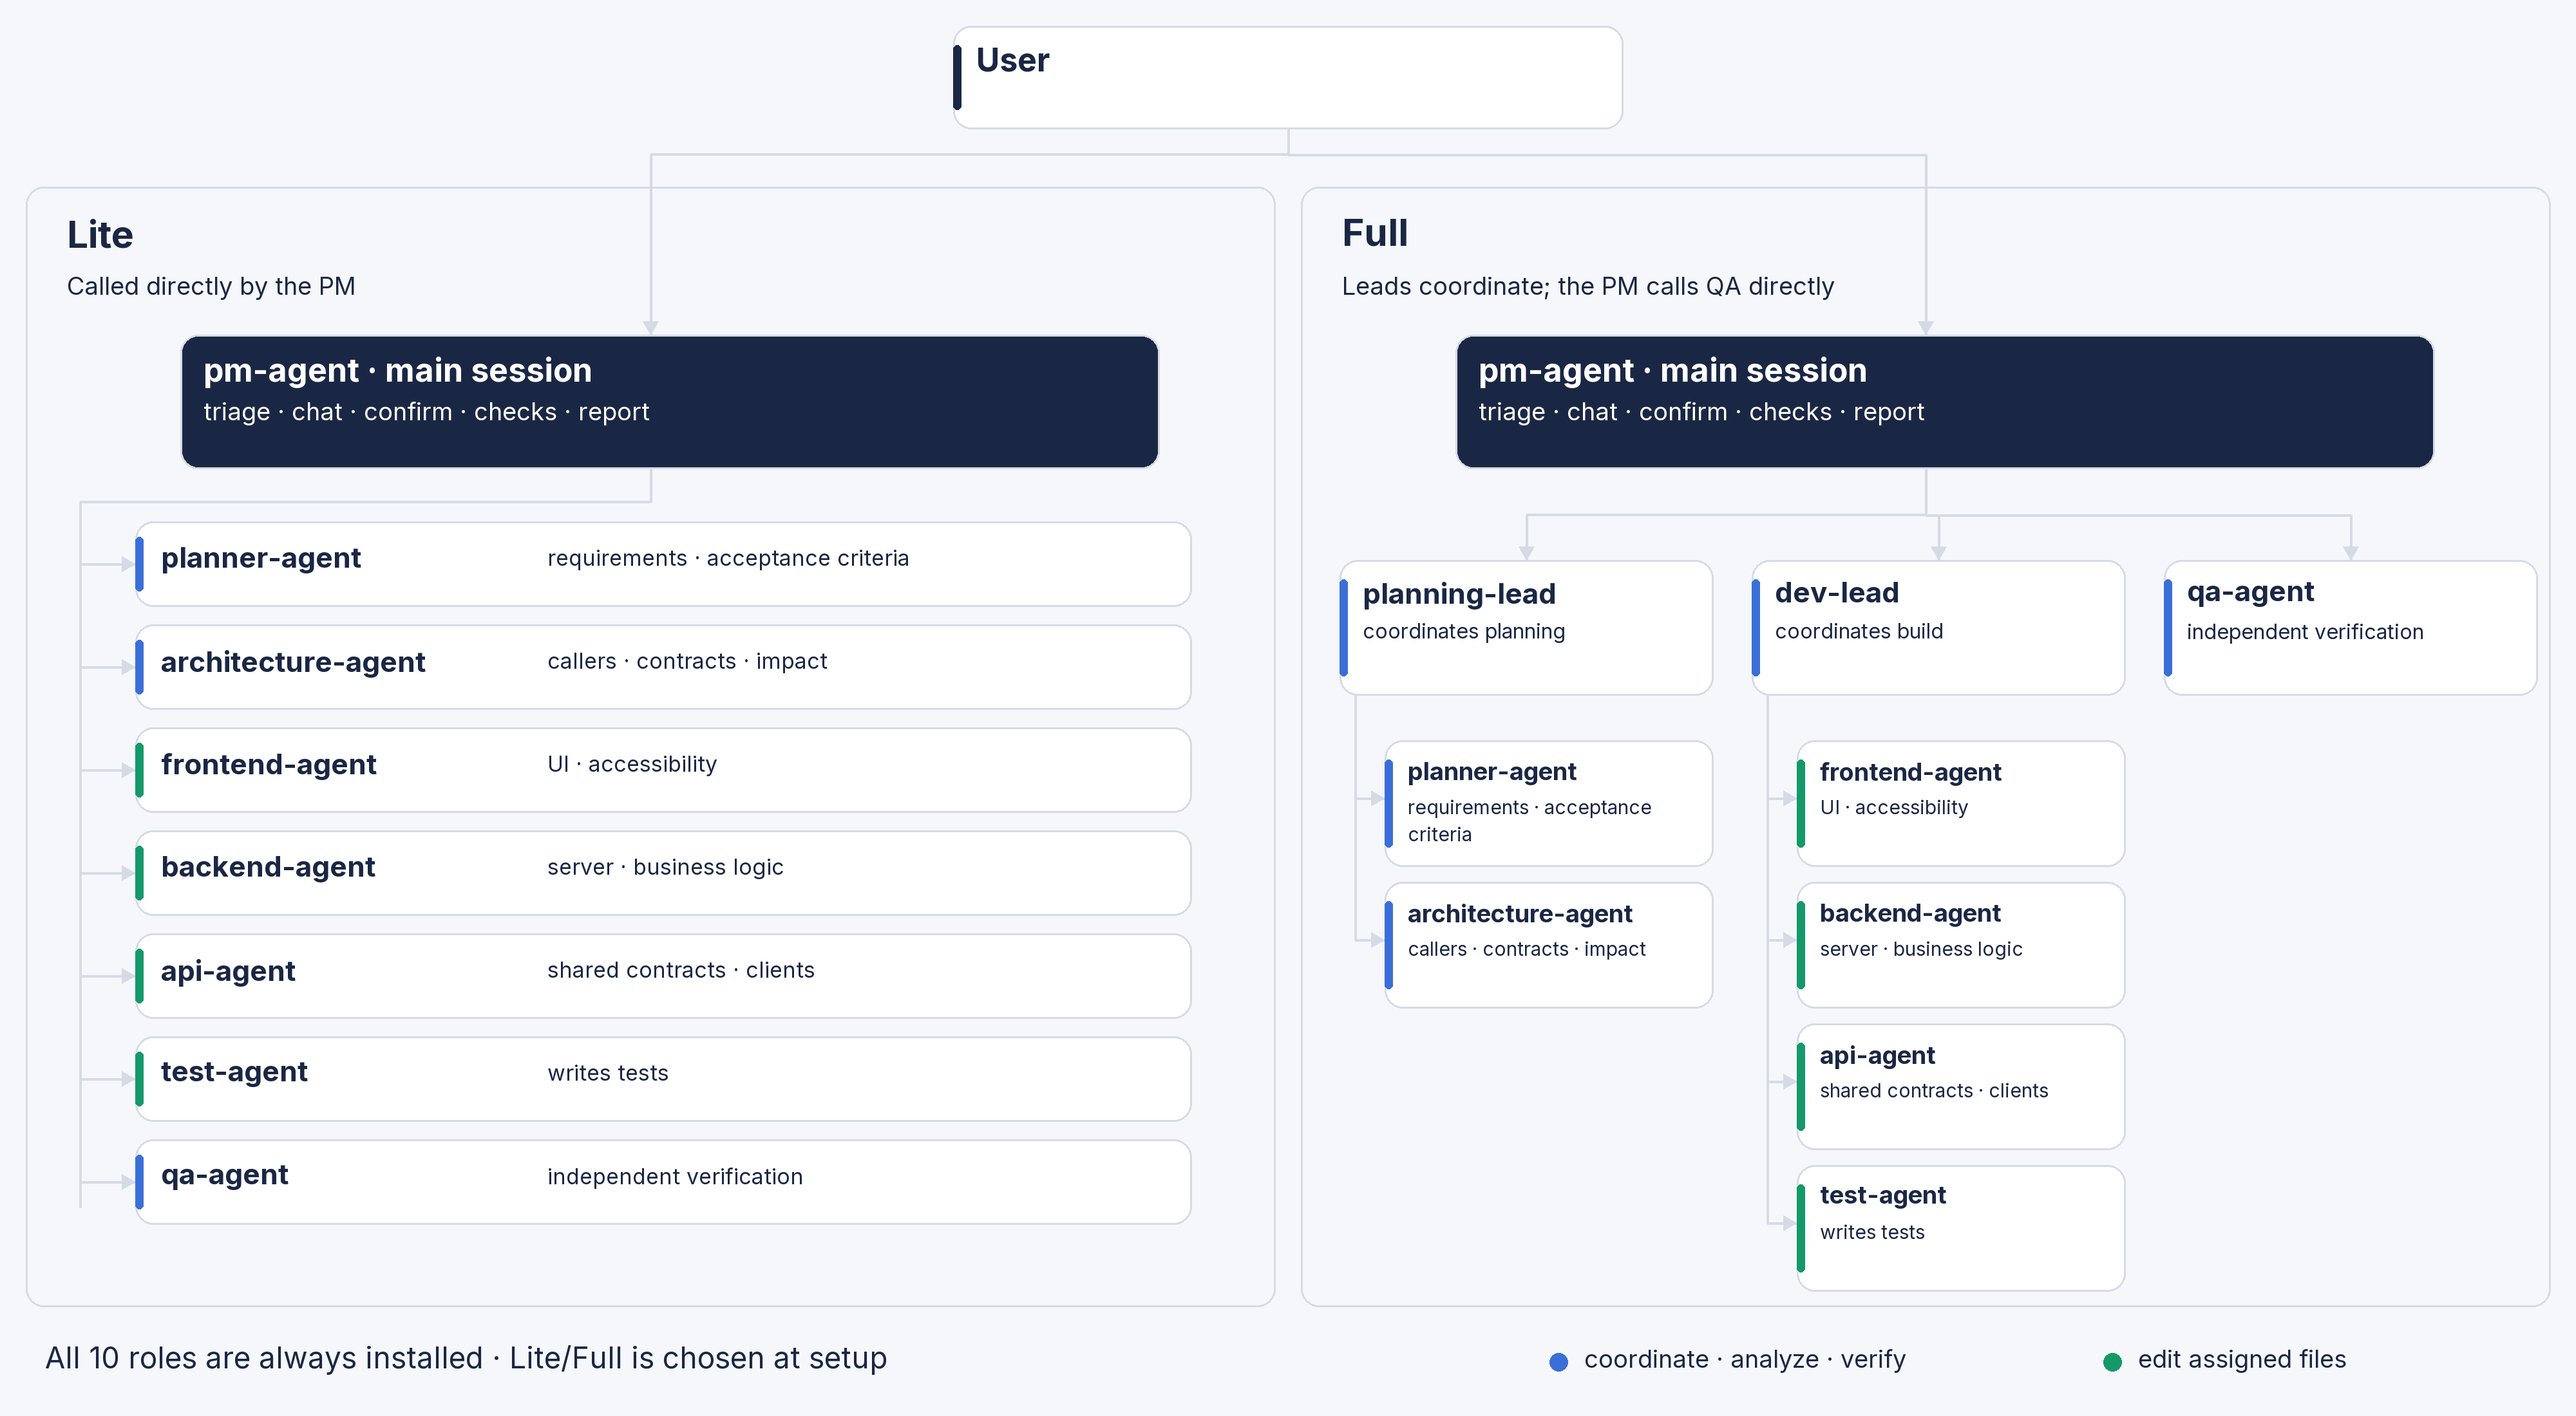
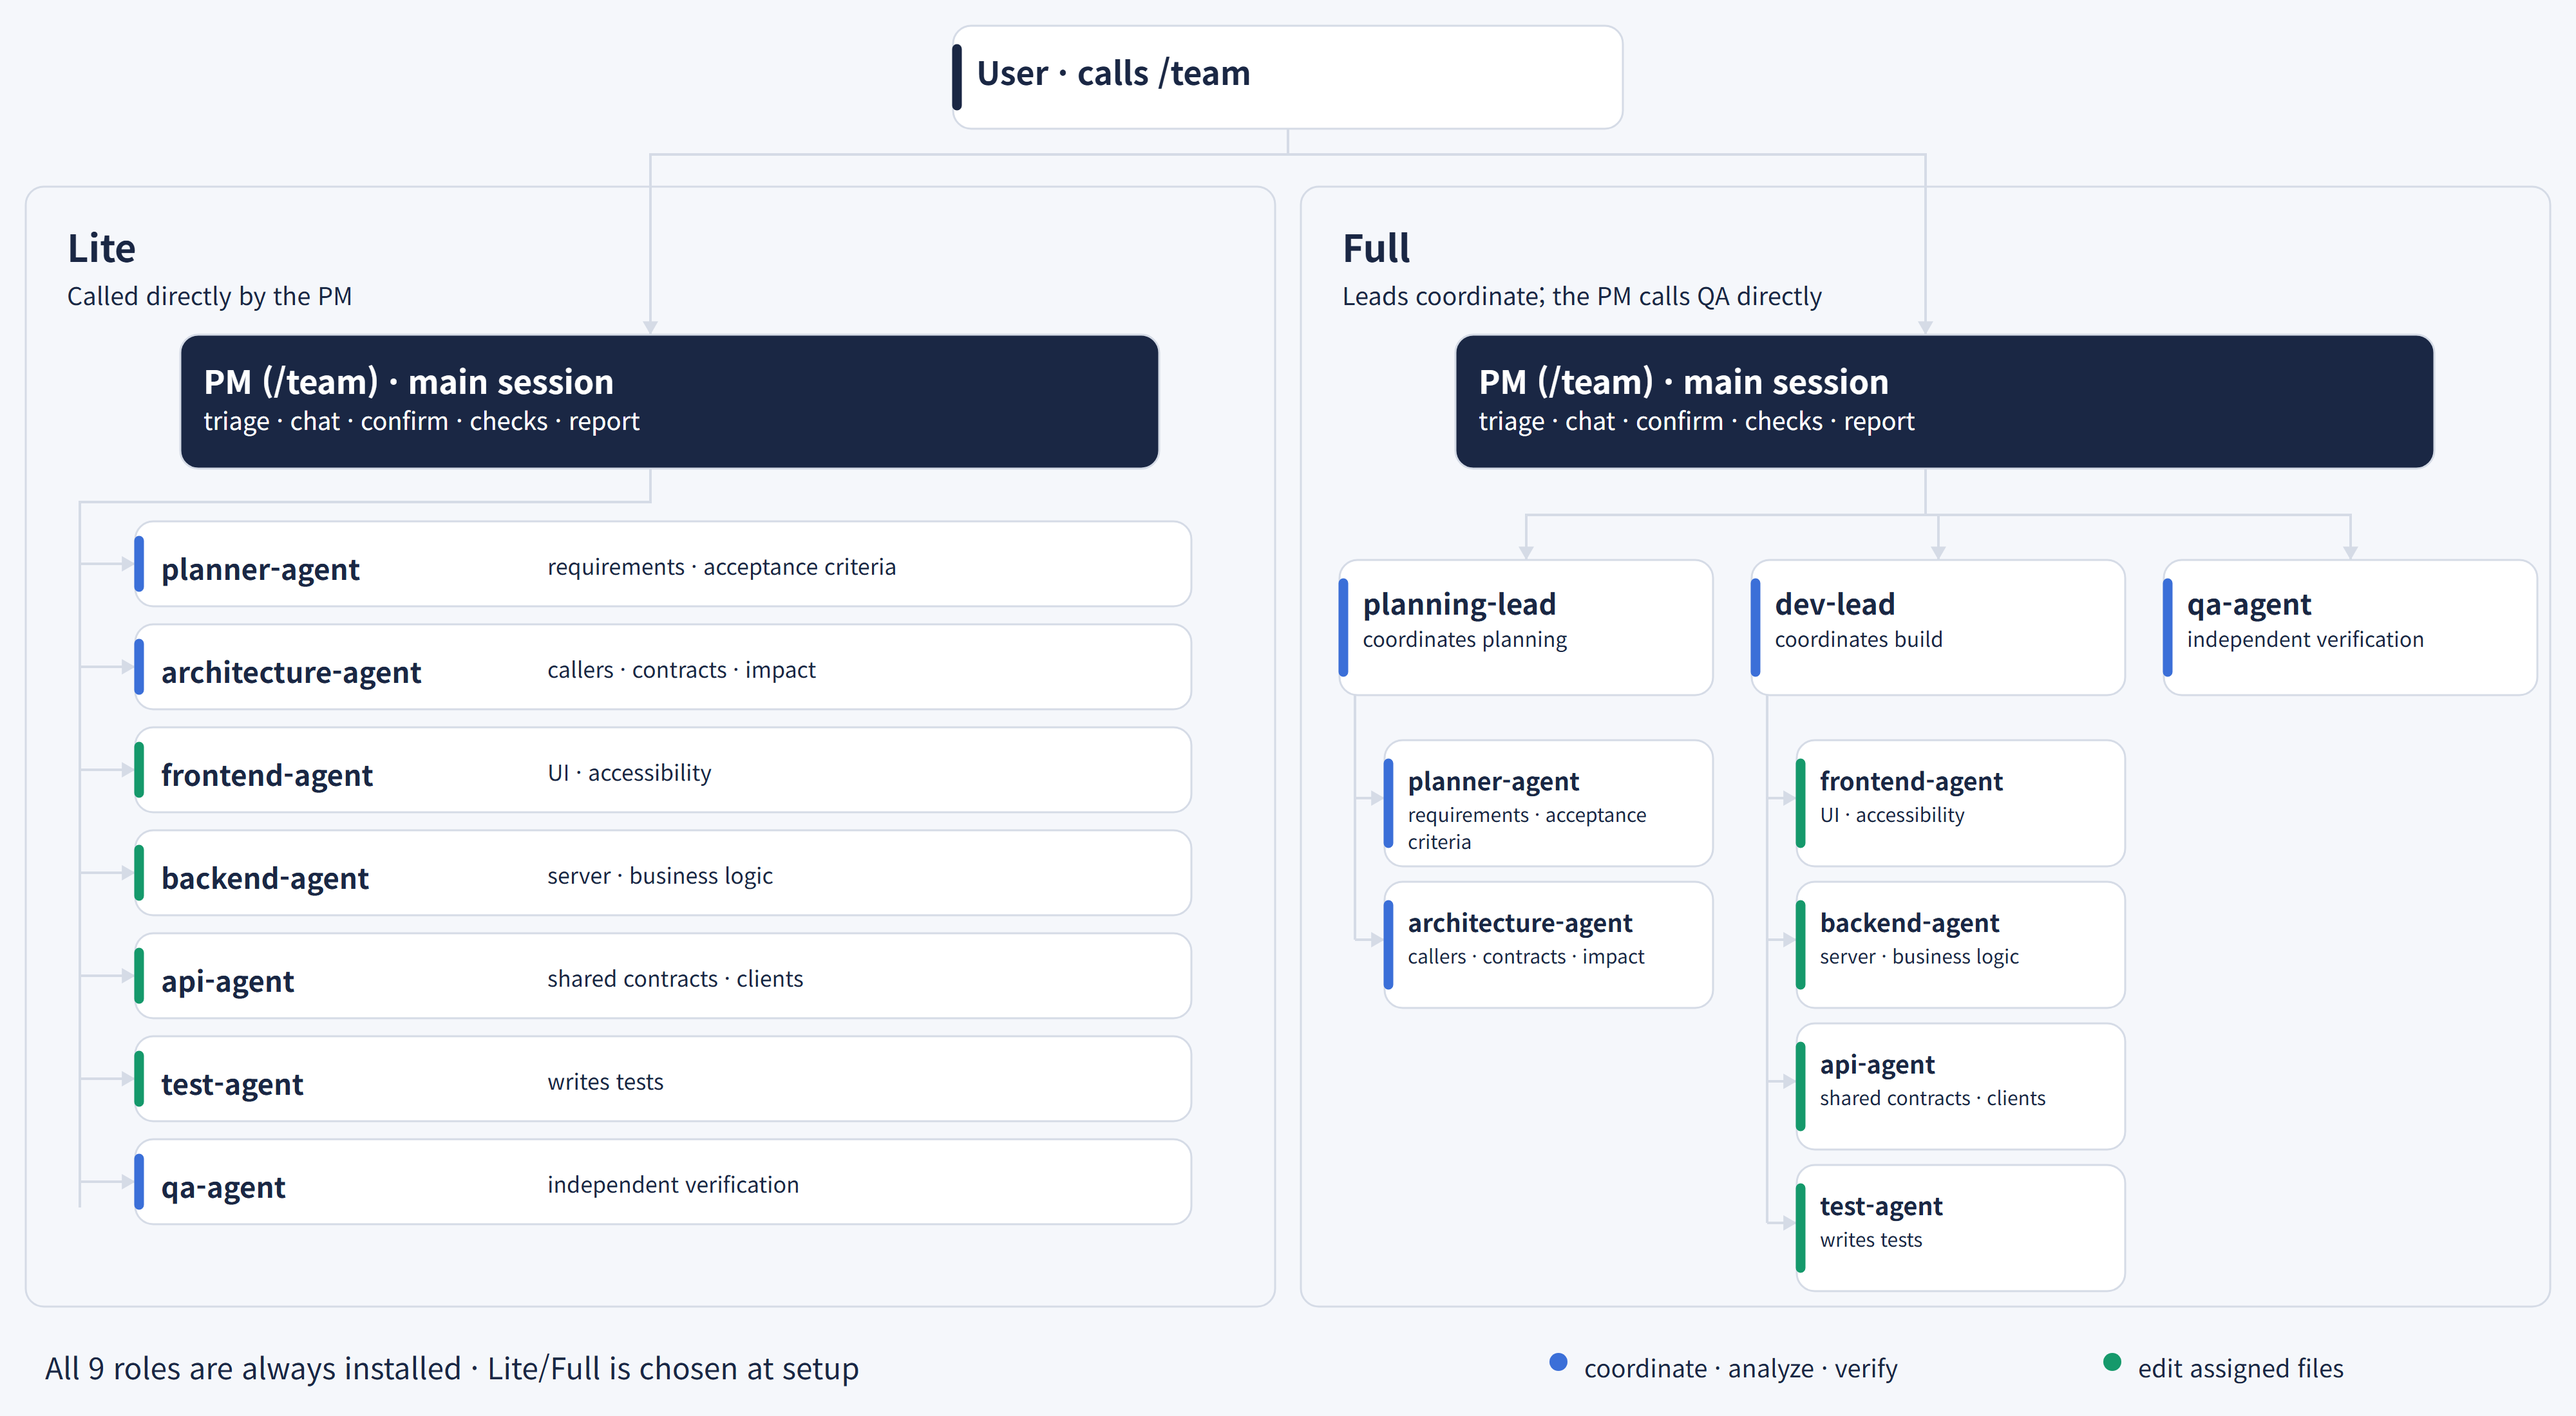
docs: 구조 변경에 맞게 README 이미지 문구 갱신

diff --git a/tools/images/render_readme.py b/tools/images/render_readme.py
@@ -14,36 +14,36 @@ from PIL import Image, ImageDraw, ImageFont
 BG, NAVY, BLUE, GREEN, LINE, AMBER = '#F5F7FB', '#1A2744', '#3B6FD8', '#15996B', '#D5DBE6', '#E8A33D'
 COPY = {
  'ko': {
-  'user': '사용자', 'main': '메인 세션',
+  'user': '사용자 · /team으로 호출', 'main': 'PM (/team) · 메인 세션',
   'lite': 'PM이 직접 호출', 'full': '리더가 하위를 조율, QA는 PM이 직접 호출',
   'legend': ['조율 · 분석 · 검증', '지정 파일 수정'],
-  'note': '역할 파일 10종은 항상 설치 · Lite/Full은 설치 시 선택',
+  'note': '역할 파일 9종은 항상 설치 · Lite/Full은 설치 시 선택',
   'roles': ['분류 · 대화 · 컨펌 · 검사 · 보고','기획 조율','개발 조율','요구 분해 · 인수 기준','호출처 · 계약 · 영향','화면 · 접근성','서버 · 업무 로직','공유 계약 · 클라이언트','테스트 작성','독립 검증'],
-  'gates': ['접수 · 분류','기획','컨펌','개발','독립 검증','최종 보고'],
+  'gates': ['/team · 접수 · 분류','기획','컨펌','개발','독립 검증','최종 보고'],
   'subs': ['', '요구 분해 · 인수 기준 · 영향 분석', '', '승인된 파일만 · 순차 쓰기','검사 기록 원본 · 체크리스트','요구사항별 충족 · 미검증 구분'],
   'skip': 'Q · L1: PM이 직접 처리', 'ask': '승인 필수 항목이 있으면 사용자에게 질문',
   'rework': '실패 항목 재작업 (최대 3회)',
   'bar': '가드 hook: 쓰기 경로 · 호출 대상 검사 │ 검사 실행기: exit code · 시각 · 해시 기록',
-  'request': '…/claude-team-base 의 INSTALL.md를 읽고 이 프로젝트에 세팅해줘',
+  'request': '/claude-team-base:setup 으로 이 프로젝트에 팀 세팅',
   'install': ['프로젝트 조사','채팅으로 질문','계획 요약 · 확인 1회','스크립트로 적용','보호 장치 점검'],
   'install_sub': ['', 'Lite/Full · Context7 · 금지 영역', '', '기존 파일 보존', '실제 Claude 호출'],
-  'end': '새 세션부터 자연어로 요청',
+  'end': '필요할 때 /team으로 호출',
  },
  'en': {
-  'user': 'User', 'main': 'main session',
+  'user': 'User · calls /team', 'main': 'PM (/team) · main session',
   'lite': 'Called directly by the PM', 'full': 'Leads coordinate; the PM calls QA directly',
   'legend': ['coordinate · analyze · verify','edit assigned files'],
-  'note': 'All 10 roles are always installed · Lite/Full is chosen at setup',
+  'note': 'All 9 roles are always installed · Lite/Full is chosen at setup',
   'roles': ['triage · chat · confirm · checks · report','coordinates planning','coordinates build','requirements · acceptance criteria','callers · contracts · impact','UI · accessibility','server · business logic','shared contracts · clients','writes tests','independent verification'],
-  'gates': ['Intake · triage','Plan','Confirm','Build','Independent QA','Final report'],
+  'gates': ['/team · Intake · triage','Plan','Confirm','Build','Independent QA','Final report'],
   'subs': ['', 'requirements · acceptance criteria · impact', '', 'approved files only · sequential writes','check records · checklist','per-requirement status · unverified'],
   'skip': 'Q · L1: handled directly by the PM', 'ask': 'Ask the user if approval is required',
   'rework': 'Rework failed items (max 3 rounds)',
   'bar': 'Guard hook: write paths · call targets │ Check runner: exit code · timestamps · hashes',
-  'request': 'Read INSTALL.md at …/claude-team-base and set this project up',
+  'request': 'Run /claude-team-base:setup to set the team up in this project',
   'install': ['Inspect project','Questions in chat','Plan summary · 1 confirmation','Apply via script','Verify guard'],
   'install_sub': ['', 'Lite/Full · Context7 · protected areas', '', 'existing files preserved', 'real Claude call'],
-  'end': 'Ask in plain language from the next session',
+  'end': 'Call /team when you need it',
  }
 }
 ROLES = ['pm-agent','planning-lead','dev-lead','planner-agent','architecture-agent','frontend-agent','backend-agent','api-agent','test-agent','qa-agent']
@@ -147,7 +147,7 @@ def render(out,fonts):
    v.text(x+32,170,'Lite' if x==20 else 'Full',29,True)
    v.text(x+32,215,caption,19,width=900)
    v.path([(1000,100),(1000,120),(x+485,120),(x+485,260)])
-   v.card(x+120,260,760,104,'pm-agent · '+c['main'],c['roles'][0],dark=True,size=25,subsize=19)
+   v.card(x+120,260,760,104,c['main'],c['roles'][0],dark=True,size=25,subsize=19)
   # Lite의 동일 깊이 실무 7종, 줄바꿈은 계층을 의미하지 않음
   v.path([(505,364),(505,390),(62,390),(62,938)],arrow=False)
   for i,idx in enumerate([3,4,5,6,7,8,9]):
